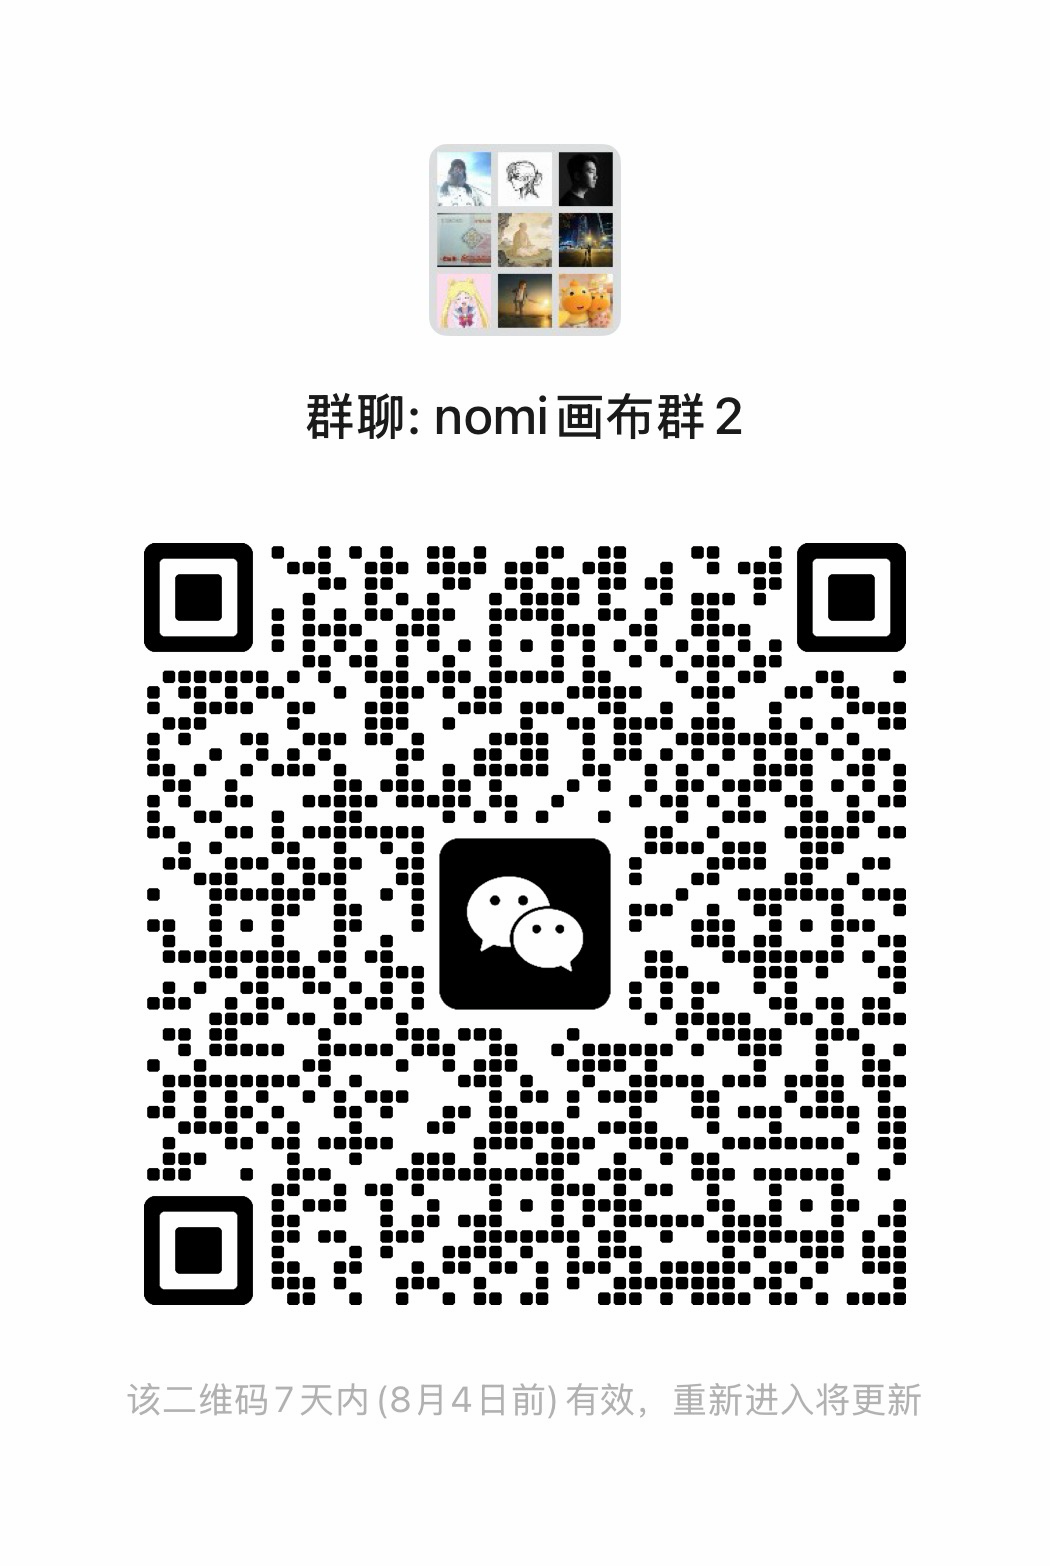
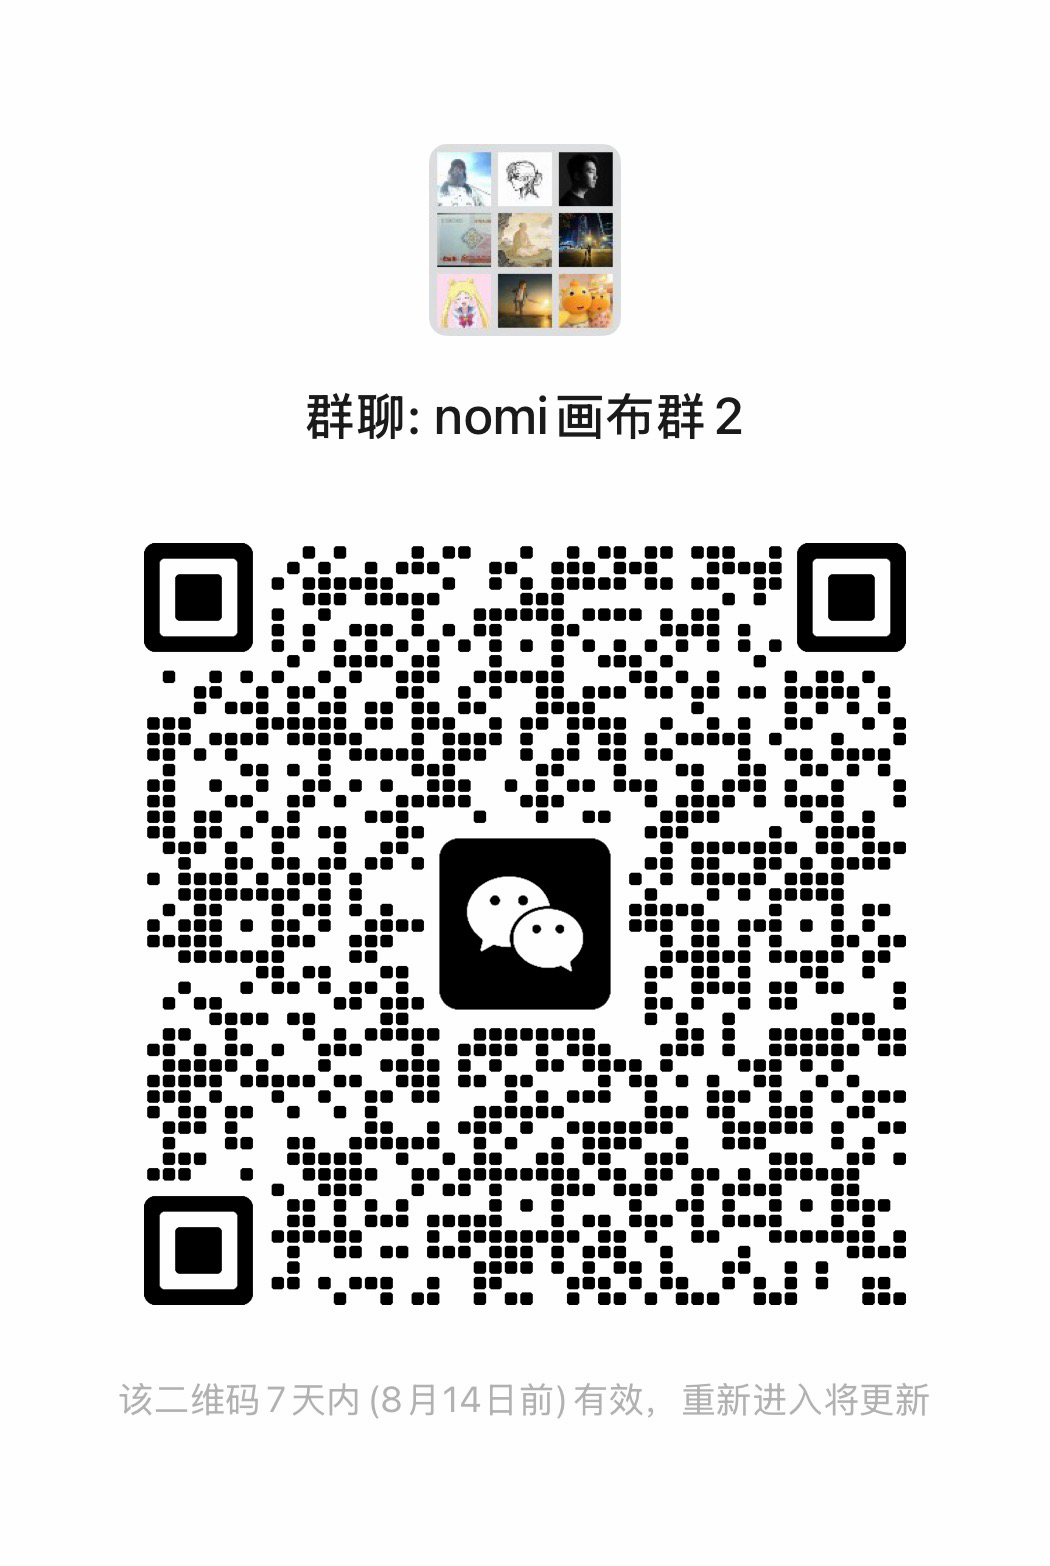
chore(community): refresh group QR through August 14

diff --git a/docs/plan/2026-08-07-community-qr-refresh.md b/docs/plan/2026-08-07-community-qr-refresh.md
@@ -1,0 +1,21 @@
+# 2026-08-07 用户群二维码刷新
+
+## 范围
+
+- 用用户提供的“nomi 画布群 2”新二维码（图中标注 2026-08-14 前有效）替换官网资产 `marketing/assets/group-wechat.png`。
+- 同步替换 README 资产 `docs/media/nomi-canvas-group-wechat.png`，保证两个入口不出现新旧分叉。
+
+## 不动项
+
+- 不改官网与 README 布局、文案、资产路径和个人微信兜底入口。
+- 不引入新资产副本或兼容分支。
+
+## 回滚
+
+- 回滚本次提交即可恢复上一张群码。
+
+## 验收门
+
+- 两份发布资产的解码像素与用户提供图片一致，且两份资产完全同步。
+- 静态营销契约、项目五门、构建全部通过。
+- 在 README 与官网实际入口查看替换后的“8 月 14 日前有效”图片。
